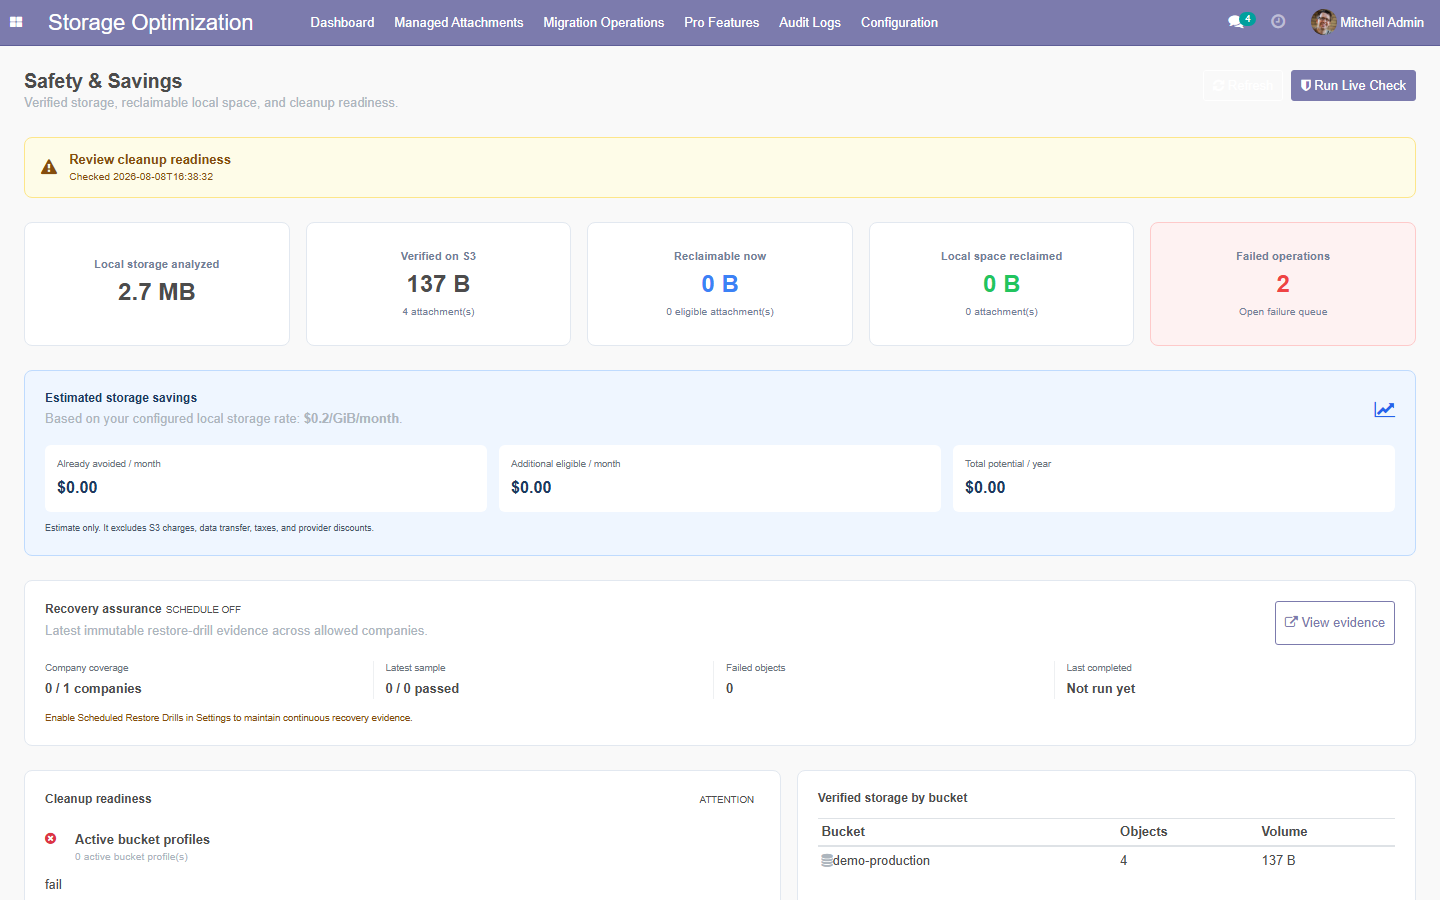
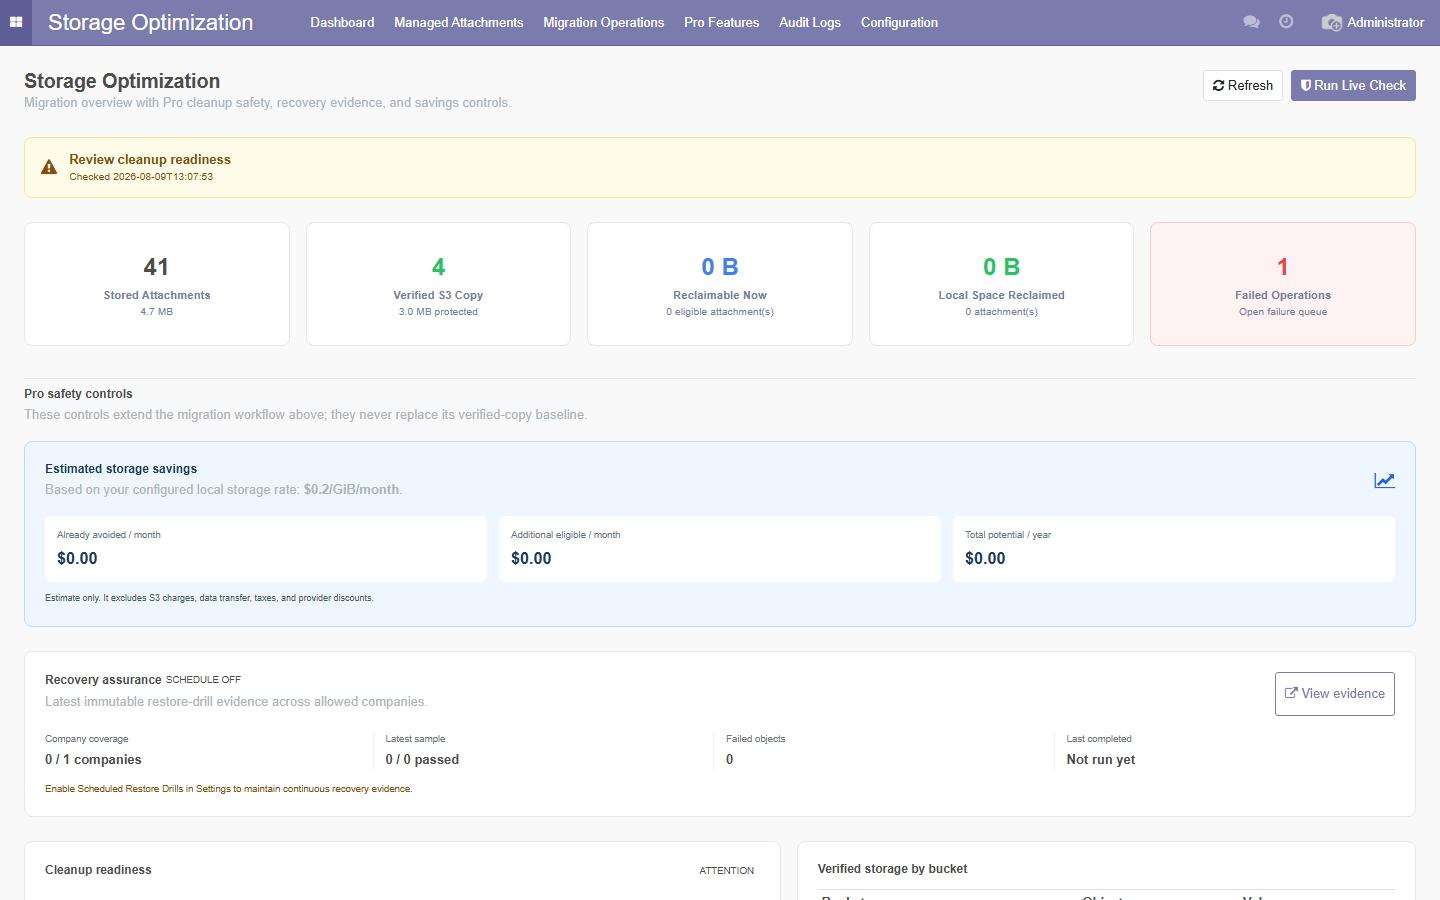
Align Pro dashboard with Free edition

diff --git a/attachment_optimizer_pro/static/description/index.html b/attachment_optimizer_pro/static/description/index.html
@@ -96,6 +96,6 @@ For subsequent modules, update content inside sections only. Do not alter sectio
     </div>
 
     <!-- FOOTER -->
-    <div style="border:1px solid #e2e8f0; border-radius:16px; padding:32px 24px; margin:40px 0 16px; text-align:center;"><div style="font-size:14px; font-weight:700; color:#1e293b; text-transform:uppercase;">Attachment Optimizer Pro</div><p style="font-size:13px; color:#64748b; line-height:1.6;">Automated, verified S3-compatible attachment lifecycle management for Odoo.</p><div style="display:inline-block; border:2px solid #4f46e5; color:#4f46e5; font-weight:700; font-size:13px; padding:10px 28px; border-radius:8px;">US$49 · One-Time · No Subscription</div><p style="font-size:11px; color:#94a3b8; margin:20px 0 0;">Version 14.0.1.0.20 · Built and maintained by FoxPink</p></div>
+    <div style="border:1px solid #e2e8f0; border-radius:16px; padding:32px 24px; margin:40px 0 16px; text-align:center;"><div style="font-size:14px; font-weight:700; color:#1e293b; text-transform:uppercase;">Attachment Optimizer Pro</div><p style="font-size:13px; color:#64748b; line-height:1.6;">Automated, verified S3-compatible attachment lifecycle management for Odoo.</p><div style="display:inline-block; border:2px solid #4f46e5; color:#4f46e5; font-weight:700; font-size:13px; padding:10px 28px; border-radius:8px;">US$49 · One-Time · No Subscription</div><p style="font-size:11px; color:#94a3b8; margin:20px 0 0;">Version 14.0.1.0.21 · Built and maintained by FoxPink</p></div>
   </div>
 </section>

diff --git a/attachment_optimizer_pro/static/src/components/pro_dashboard/pro_dashboard.scss b/attachment_optimizer_pro/static/src/components/pro_dashboard/pro_dashboard.scss
@@ -70,6 +70,7 @@ html .o_web_client .o_action_manager .o_pro_safety_dashboard {
 .o_pro_kpi_card small,
 .o_pro_kpi_label { color: #718096; }
 .o_pro_kpi_label { font-size: .95rem; font-weight: 600; }
+.o_pro_value_success { color: #22c55e; }
 .o_pro_kpi_action { cursor: pointer; transition: border-color .15s ease, box-shadow .15s ease; }
 .o_pro_kpi_action:hover,
 .o_pro_kpi_action:focus-visible { border-color: var(--o-brand-primary, #714b67); box-shadow: 0 0 0 3px rgba(113, 75, 103, .12); outline: 0; }
@@ -77,6 +78,17 @@ html .o_web_client .o_action_manager .o_pro_safety_dashboard {
 .o_pro_kpi_success strong { color: #22c55e; }
 .o_pro_kpi_danger { background: #fef2f2; border-color: #fecaca; }
 .o_pro_kpi_danger strong { color: #ef4444; }
+
+.o_pro_section_intro {
+    display: flex;
+    align-items: baseline;
+    justify-content: space-between;
+    gap: 16px;
+    margin: 32px 0 16px;
+    padding-top: 8px;
+    border-top: 1px solid #e2e8f0;
+}
+.o_pro_section_intro h3 { margin: 0 0 4px; font-size: 1rem; font-weight: 600; }
 
 .o_pro_savings_panel {
     margin-bottom: 24px;

diff --git a/attachment_optimizer_pro/__manifest__.py b/attachment_optimizer_pro/__manifest__.py
@@ -1,6 +1,6 @@
 {
     "name": "Attachment Optimizer Pro",
-    "version": "14.0.1.0.20",
+    "version": "14.0.1.0.21",
     "category": "Storage",
     "summary": "Automation, cleanup, routing and lifecycle for S3-compatible attachment storage.",
     "description": """

diff --git a/README.md b/README.md
@@ -8,7 +8,7 @@ Only update product content, version, links, compatibility status, screenshots, 
 
 ![Attachment Optimizer Pro](attachment_optimizer_pro/static/description/preview.png)
 
-**Version:** 14.0.1.0.20 -- **License:** OPL-1 -- **Publisher:** FoxPink -- Maintained for **Odoo 14.0**
+**Version:** 14.0.1.0.21 -- **License:** OPL-1 -- **Publisher:** FoxPink -- Maintained for **Odoo 14.0**
 
 ---
 
